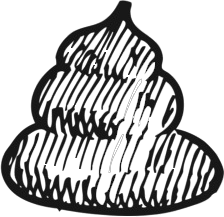
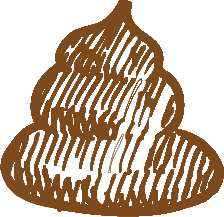
改变图标，不在当前页可暂停

diff --git a/js/bullet.js b/js/bullet.js
@@ -2,13 +2,12 @@ let bulletOffset = new Map(); //暴露的变量，子弹的坐标
 (function() {
     'use strict';
     /* 子弹 */
-    const CONTAINER = document.querySelector('#container'),
-        PLANE = document.querySelector('#plane');
+    const PLANE = document.querySelector('#plane');
 
     let planeTop = PLANE.offsetTop;
     let createBullet = (x) => {
         let bullet = document.createElement('div');
-        bullet.setAttribute('class', 'bullet');
+        bullet.setAttribute('class', 'bullet animation');
         bullet.setAttribute('data-id', Math.floor(Math.random() * 10000000));
         bullet.style.top = planeTop + 'px';
         CONTAINER.appendChild(bullet);
@@ -16,6 +15,20 @@ let bulletOffset = new Map(); //暴露的变量，子弹的坐标
             ele: bullet,
             x: x
         };
+    }
+
+    const removeRollAnimate = () => {
+        const ele = document.querySelectorAll('.bullet');
+        for (let i = 0; i < ele.length; i++) {
+            ele[i].classList.remove('animation');
+        }
+    }
+
+    const addRollAnimate = () => {
+        const ele = document.querySelectorAll('.bullet');
+        for (let i = 0; i < ele.length; i++) {
+            ele[i].classList.add('animation');
+        }
     }
 
     let moveBullet = (ele, x) => {
@@ -32,26 +45,6 @@ let bulletOffset = new Map(); //暴露的变量，子弹的坐标
         })
 
         /* 超出屏幕清除掉那个子弹 */
-        /* let INTERTIMER = setInterval(() => {
-            if (!pause) {
-                if (thisY > 0) {
-                    thisY -= 10;
-                    ele.style.top = thisY + 'px';
-                    bulletOffset.get(THISID).y = thisY;
-                    let flag = ifBulletImpactMonster(THISX, thisY);
-                    if (flag) {
-                        clearInterval(INTERTIMER);
-                        CONTAINER.removeChild(ele);
-                        CONTAINER.removeChild(document.querySelector('.monster[data-id="' + flag + '"]'));
-                        bulletOffset.delete(THISID);
-                    }
-                } else {
-                    clearInterval(INTERTIMER);
-                    CONTAINER.removeChild(ele);
-                    bulletOffset.delete(THISID);
-                }
-            }
-        }, 50); */
         const INTERTIMERFN = () => {
             let INTERTIMER = setTimeout(() => {
                 if (!pause) {
@@ -73,19 +66,19 @@ let bulletOffset = new Map(); //暴露的变量，子弹的坐标
                         CONTAINER.removeChild(ele);
                         bulletOffset.delete(THISID);
                     }
+                    addRollAnimate();
                 } else {
                     INTERTIMERFN();
+                    removeRollAnimate();
                 }
             }, 50)
         }
         INTERTIMERFN();
     }
 
-    const planeWidth = 30,
-        bulletWidth = 10;
     setInterval(() => {
         if (!pause) {
-            let bullet = createBullet(planeOffset.x + planeWidth / 2 - bulletWidth / 2),
+            let bullet = createBullet(planeOffset.x + PLANEWIDTH / 2 - BULLETWIDTH / 2),
                 ele = bullet.ele,
                 x = bullet.x;
             moveBullet(ele, x);

diff --git a/js/index.js b/js/index.js
@@ -1,11 +1,14 @@
-// window 失去焦点 游戏暂停
-window.onblur = function() {};
-
-// window 获得焦点 
-window.onfocus = function() {}
+const CONTAINER = document.querySelector('#container'),
+    CONTAINERHEIGHT = CONTAINER.offsetHeight,
+    CONTAINERWIDTH = CONTAINER.offsetWidth,
+    MONSTERWIDTH = 45,
+    MONSTERHEIGHT = 45,
+    BULLETWIDTH = 20,
+    BULLETHEIGHT = 20,
+    PLANEWIDTH = 40,
+    PLANEHEIGHT = 40;
 
 // 分数
-
 let score = 0,
     scoreEle = document.querySelector('#score');
 const updateScore = () => {
@@ -15,11 +18,6 @@ const updateScore = () => {
 
 // 查找某颗子弹是否碰到小怪兽,先计算x值，再计算y值
 const ifBulletImpactMonster = (x, y) => {
-    const BULLETWIDTH = 10,
-        MONSTERWIDTH = 15,
-        MONSTERHEIGHT = 30;
-
-    let deletMonsterId = '';
     for (let [key, data] of monsterOffset) {
         //子弹最右边大于等于小怪兽最左边，并且子弹最左边小于等于小怪兽最右边，那么这俩个在x轴会相遇
         if (x + BULLETWIDTH >= data.x && x <= data.x + MONSTERWIDTH) {
@@ -37,9 +35,6 @@ const ifBulletImpactMonster = (x, y) => {
 
 // 查找某小怪兽是否碰到飞机
 const ifMonsterImpacePlane = (x, y) => {
-    const MONSTERWIDTH = 15,
-        MONSTERHEIGHT = 30,
-        PLANEWIDTH = 30;
     // 小怪兽最下面大于飞机最上面，则可能相遇
     if (y + MONSTERHEIGHT > planeOffset.y) {
         //小怪兽最右边大于等于飞机最左边，并且小怪兽最左边小于等于飞机最右边，那么这俩个在x轴会相遇
@@ -79,17 +74,25 @@ const TOGGLE = {
     },
 }
 
-document.querySelector('#pause').onclick = function() {
+const PAUSEGAME = () => {
     pause = true;
     TOGGLE.showShade();
     TOGGLE.showLayer();
 }
 
-document.querySelector('#continue').onclick = function() {
+const CONTINUEGAME = () => {
     pause = false;
     TOGGLE.hideShade();
     TOGGLE.hideLayer();
     TOGGLE.hideGameover();
+}
+
+document.querySelector('#pause').onclick = function() {
+    PAUSEGAME();
+}
+
+document.querySelector('#continue').onclick = function() {
+    CONTINUEGAME();
 }
 
 // GAME OVER
@@ -99,3 +102,13 @@ const gameOver = () => {
     TOGGLE.showGameover();
     document.querySelector('#game_result').innerText = score;
 }
+
+// window 失去焦点 游戏暂停
+window.onblur = function() {
+    PAUSEGAME();
+};
+
+// window 获得焦点 
+/* window.onfocus = function() {
+    CONTINUEGAME();
+} */

diff --git a/js/monster.js b/js/monster.js
@@ -2,12 +2,6 @@ let monsterOffset = new Map(); //暴露的变量，小怪兽的坐标
 (function() {
     'use strict';
 
-    const CONTAINER = document.querySelector('#container'),
-        CONTAINERHEIGHT = CONTAINER.offsetHeight,
-        CONTAINERWIDTH = CONTAINER.offsetWidth,
-        MONSTERWIDTH = 15,
-        MONSTERHEIGHT = 30 + 5;
-
     /* 小怪兽移动方法 */
     let moveMonsterFn = (ele) => {
         const THISID = ele.getAttribute('data-id'),
@@ -22,29 +16,11 @@ let monsterOffset = new Map(); //暴露的变量，小怪兽的坐标
         })
 
         /* 超出屏幕清除掉那个小怪兽 */
-        /* let INTERTIMER = setInterval(() => {
-            if (!pause) {
-                if (monsterOffset.get(THISID)) {
-                    if (thisY < CONTAINERHEIGHT - MONSTERHEIGHT) {
-                        thisY += 5;
-                        ele.style.top = thisY + 'px';
-                        monsterOffset.get(THISID).y = thisY;
-                        ifMonsterImpacePlane(THISX, thisY);
-                    } else {
-                        clearInterval(INTERTIMER);
-                        CONTAINER.removeChild(ele);
-                        bulletOffset.delete(THISID);
-                    }
-                } else {
-                    clearInterval(INTERTIMER);
-                }
-            }
-        }, 50); */
         const INTERTIMERFN = () => {
             let INTERTIMER = setTimeout(() => {
                 if (!pause) {
                     if (monsterOffset.get(THISID)) {
-                        if (thisY < CONTAINERHEIGHT - MONSTERHEIGHT) {
+                        if (thisY < CONTAINERHEIGHT - MONSTERHEIGHT + 5) {
                             thisY += 5;
                             ele.style.top = thisY + 'px';
                             monsterOffset.get(THISID).y = thisY;

diff --git a/css/index.css b/css/index.css
@@ -16,34 +16,49 @@ body {
 /* plane */
 
 #plane {
-    width: 30px;
-    height: 30px;
-    background-color: #FF647E;
+    width: 40px;
+    height: 40px;
     border-radius: 50%;
     cursor: pointer;
     position: absolute;
-    bottom: 5%;
+    bottom: 2%;
+    background-image: url(../img/doge.png);
+    background-repeat: no-repeat;
+    background-size: 100%;
 }
 
 
 /* monster */
 
 .monster {
-    width: 15px;
-    height: 30px;
-    background-color: #014E5A;
+    width: 45px;
+    height: 45px;
     position: absolute;
+    background-image: url(../img/panda.gif);
+    background-repeat: no-repeat;
+    background-size: 100%;
 }
 
 
 /* bullet */
 
 .bullet {
-    width: 8px;
+    width: 20px;
     height: 20px;
-    background-color: #F4DFA0;
     position: absolute;
-    border-radius: 10px;
+    background-image: url(../img/shit.png);
+    background-repeat: no-repeat;
+    background-size: 100%;
+}
+
+.bullet.animation {
+    animation: rollShit .5s infinite linear;
+}
+
+@keyframes rollShit {
+    100% {
+        transform: rotate(360deg);
+    }
 }
 
 
